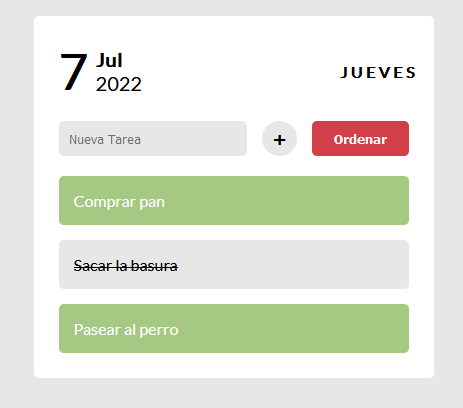
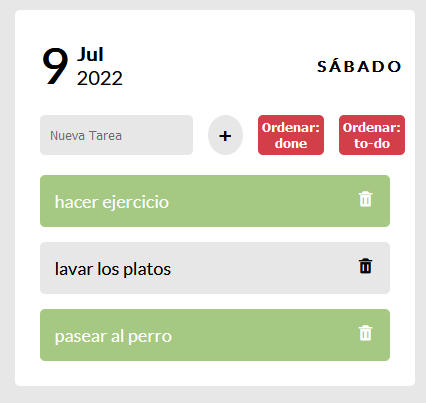
Se agregan funcionalidades extra y se actualiza readme

diff --git a/index.js b/index.js
@@ -7,6 +7,8 @@ const dateYear = document.getElementById('dateYear')
 // Se selecciona el div que contendrá todas las tareas
 const taskContainer = document.getElementById('taskContainer')
 
+Sortable.create(taskContainer, {})
+
 //Función que genera la fecha actual y los muestra en los contenedores seleccionados anteriormente
 const setDate = () => {
     const date = new Date()
@@ -27,9 +29,22 @@ const addNewTask = event => {
     task.addEventListener('click', changeTaskState)
     task.textContent = value
     taskContainer.prepend(task)
-    event.target.reset()   
+    event.target.reset()
+    createBtn(task)   
 }
 
+//Función que cra el boton, dandóle el ícono, vincula la funcion deleteElement a ese boton y luego lo inserta en el contenedor de la tarea
+const createBtn = (element) => {
+    const btn = document.createElement('i')
+    btn.classList.add('bx', 'bxs-trash')
+    btn.addEventListener('click', deleteElement)
+    element.appendChild(btn)
+}
+
+//Función que selecciona el padre del elemento clikeado y lo elimina
+const deleteElement = (element) => {
+    element.target.parentElement.remove()
+}
 
 // Función dada a cada tarea que activa o desactiva la clase css done
 const changeTaskState = event => {
@@ -37,19 +52,24 @@ const changeTaskState = event => {
 }
 
 //Función que crea dos array. uno con las tareas hechas y otro con las tareas por hacer. Itera los hijos del contenedor con las tareas y en base a si contienen la clase done los agrupa en uno de los arrays creados, luego retorna una copia de esos arrays, primero el de tareas por hacer y luego el de hechas
-const order = () => {
+const order = (string) => {
     const done = []
     const toDo = []
     taskContainer.childNodes.forEach( el => {
         el.classList.contains('done') ? done.push(el) : toDo.push(el)
     })
-    return [...toDo, ...done]
+    if (string == "toDo"){
+        return [...toDo, ...done]
+    }
+    else if (string == "done"){
+        return [...done, ...toDo]
+    }
 }
 
 
 // Función que llama a la funcion order, itera el array devuelto y crea un hijo en el contenedor de tareas por cada item del array
-const renderOrderedTask = () => {
-    order().forEach( el => taskContainer.appendChild(el))
+const renderOrderedTask = (string) => {
+    order(string).forEach( el => taskContainer.appendChild(el))
 }
 
 
@@ -57,4 +77,4 @@ const renderOrderedTask = () => {
 setDate()
 
 
-// Funcionalidades extra, se puede eliminar definitivamente una tarea, se pueden order por completadas o por hacer y se pueden arrastrar tareas.
+// Funcionalidades extra, se puede eliminar definitivamente una tarea, se pueden ordenar por completadas o por hacer y se pueden arrastrar tareas.

diff --git a/index.html b/index.html
@@ -6,7 +6,9 @@
     <meta name="viewport" content="width=device-width, initial-scale=1.0">
     <title>Lista de tareas</title>
     <link href="https://fonts.googleapis.com/css2?family=Lato&display=swap" rel="stylesheet">
+    <link href='https://unpkg.com/boxicons@2.1.2/css/boxicons.min.css' rel='stylesheet'>
     <link rel="stylesheet" href="style.css">
+    <script src="https://cdn.jsdelivr.net/npm/sortablejs@latest/Sortable.min.js"></script>
     <script src="index.js" defer></script>
 </head>
 <body>
@@ -24,7 +26,8 @@
         <form onsubmit="addNewTask(event)">
             <input type="text" name="taskText" autocomplete="off" placeholder="Nueva Tarea" class="roundBorder">
             <button type="submit" class="addTaskButton">+</button>
-            <button type="button" class="orderButton roundBorder" onclick="renderOrderedTask()">Ordenar</button>
+            <button type="button" class="orderButton roundBorder" onclick="renderOrderedTask('toDo')">Ordenar: done</button>
+            <button type="button" class="orderButton roundBorder" onclick="renderOrderedTask('done')">Ordenar: to-do</button>
         </form>
         <div id="taskContainer"></div>
     </div>

diff --git a/style.css b/style.css
@@ -88,7 +88,7 @@ input:focus {
 }
 
 .addTaskButton {
-    height: 35px;
+    height: 40px;
     border-radius: 50%;
     font-size: 18px;
     background-color: var(--disabled);
@@ -100,10 +100,12 @@ input:focus {
     margin-top: 15px;
     color: var(--light);
     cursor: pointer;
+    display: flex;
+    justify-content: space-between;
+    font-size: 18px;
 }
 
 .done {
     background-color: var(--disabled);
-    text-decoration: line-through;
     color: var(--dark);
 }

diff --git a/README.md b/README.md
@@ -7,7 +7,10 @@
 - HTML
 
 ---
-Utiliza la fuente [Lato](https://fonts.google.com/specimen/Lato?query=lato), que pueden ver haciendo click en el enlace, tiene la función de mostrar la fecha local.
+Utiliza la fuente [Lato](https://fonts.google.com/specimen/Lato?query=lato), que pueden ver haciendo click en el enlace.  
+
+Al cargar la pagina muestra la fecha actual, se pueden eliminar tareas, ordenarlas y arrastrarlas.
+Para arrastrar las tareas hace uso de la libreria [SortableJS](https://sortablejs.github.io/Sortable/). 
 
 ---
 ![Screenshot de como se ve la página](assets/to-do_screen.png)
